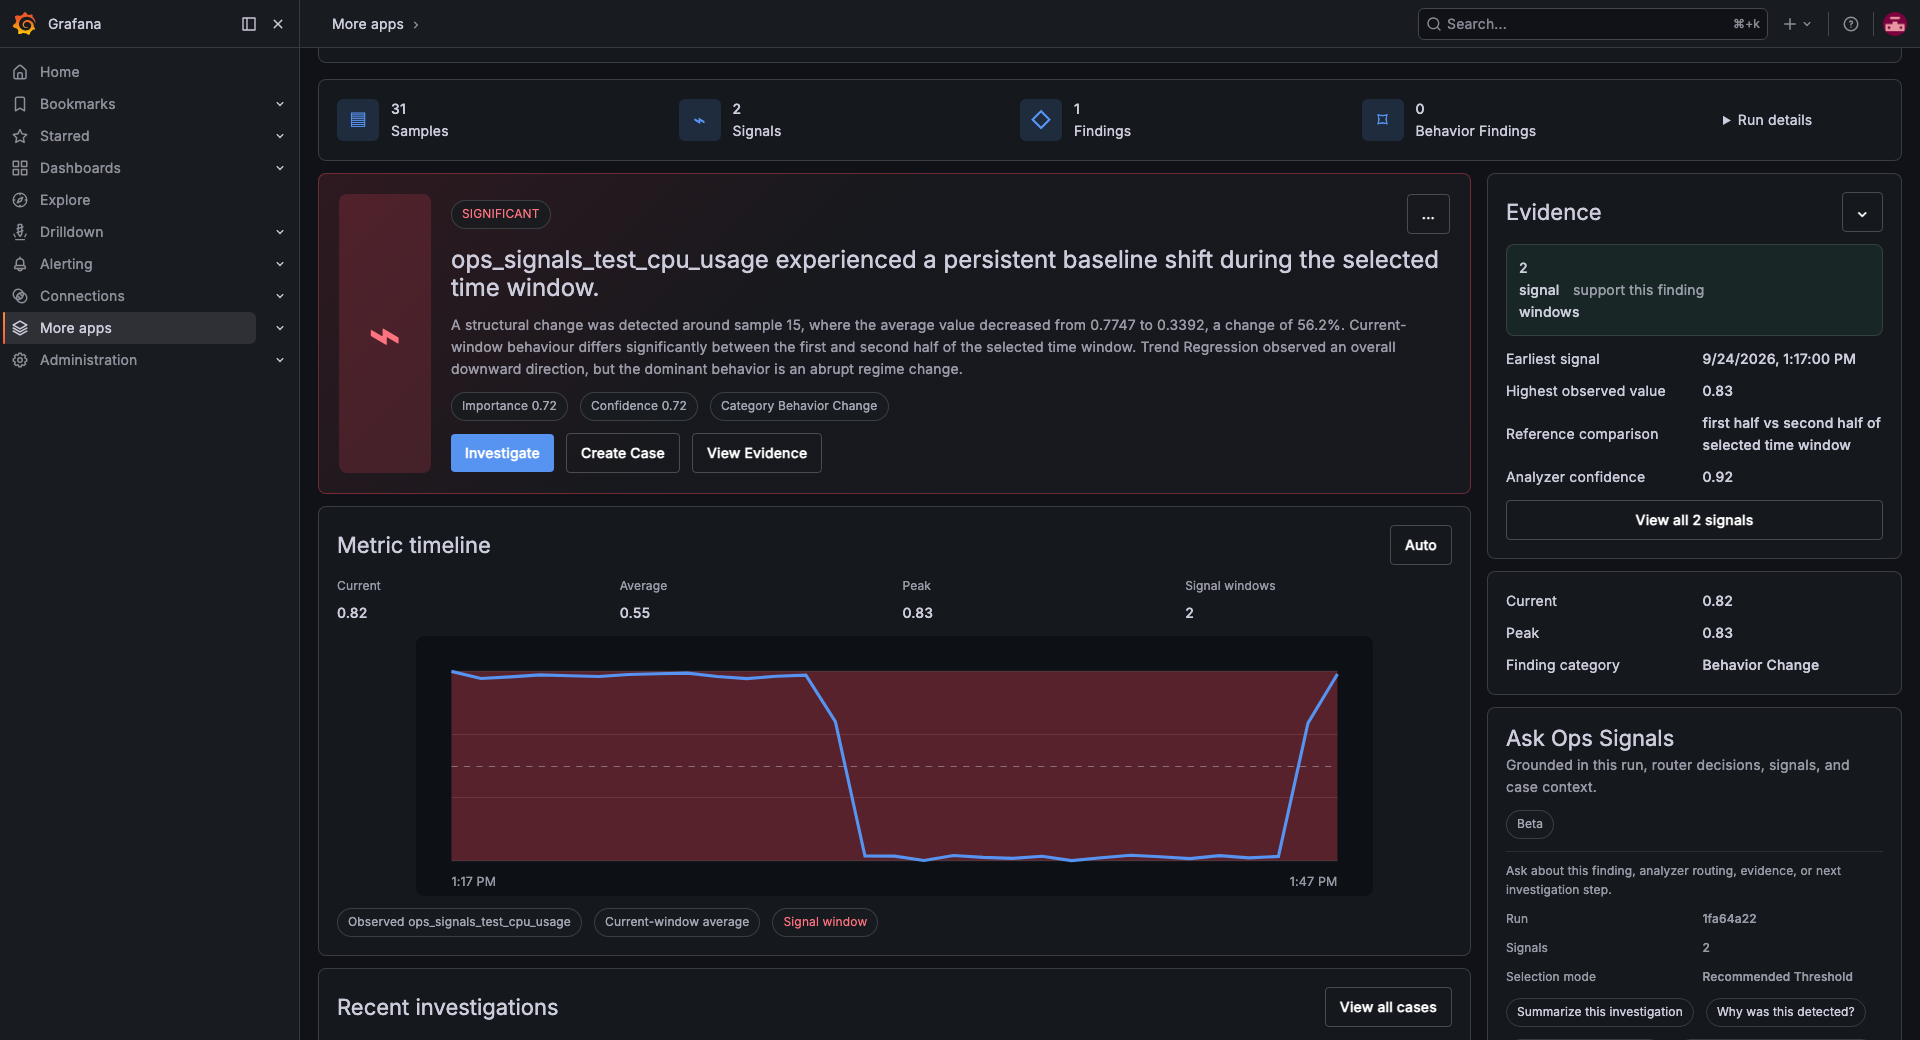
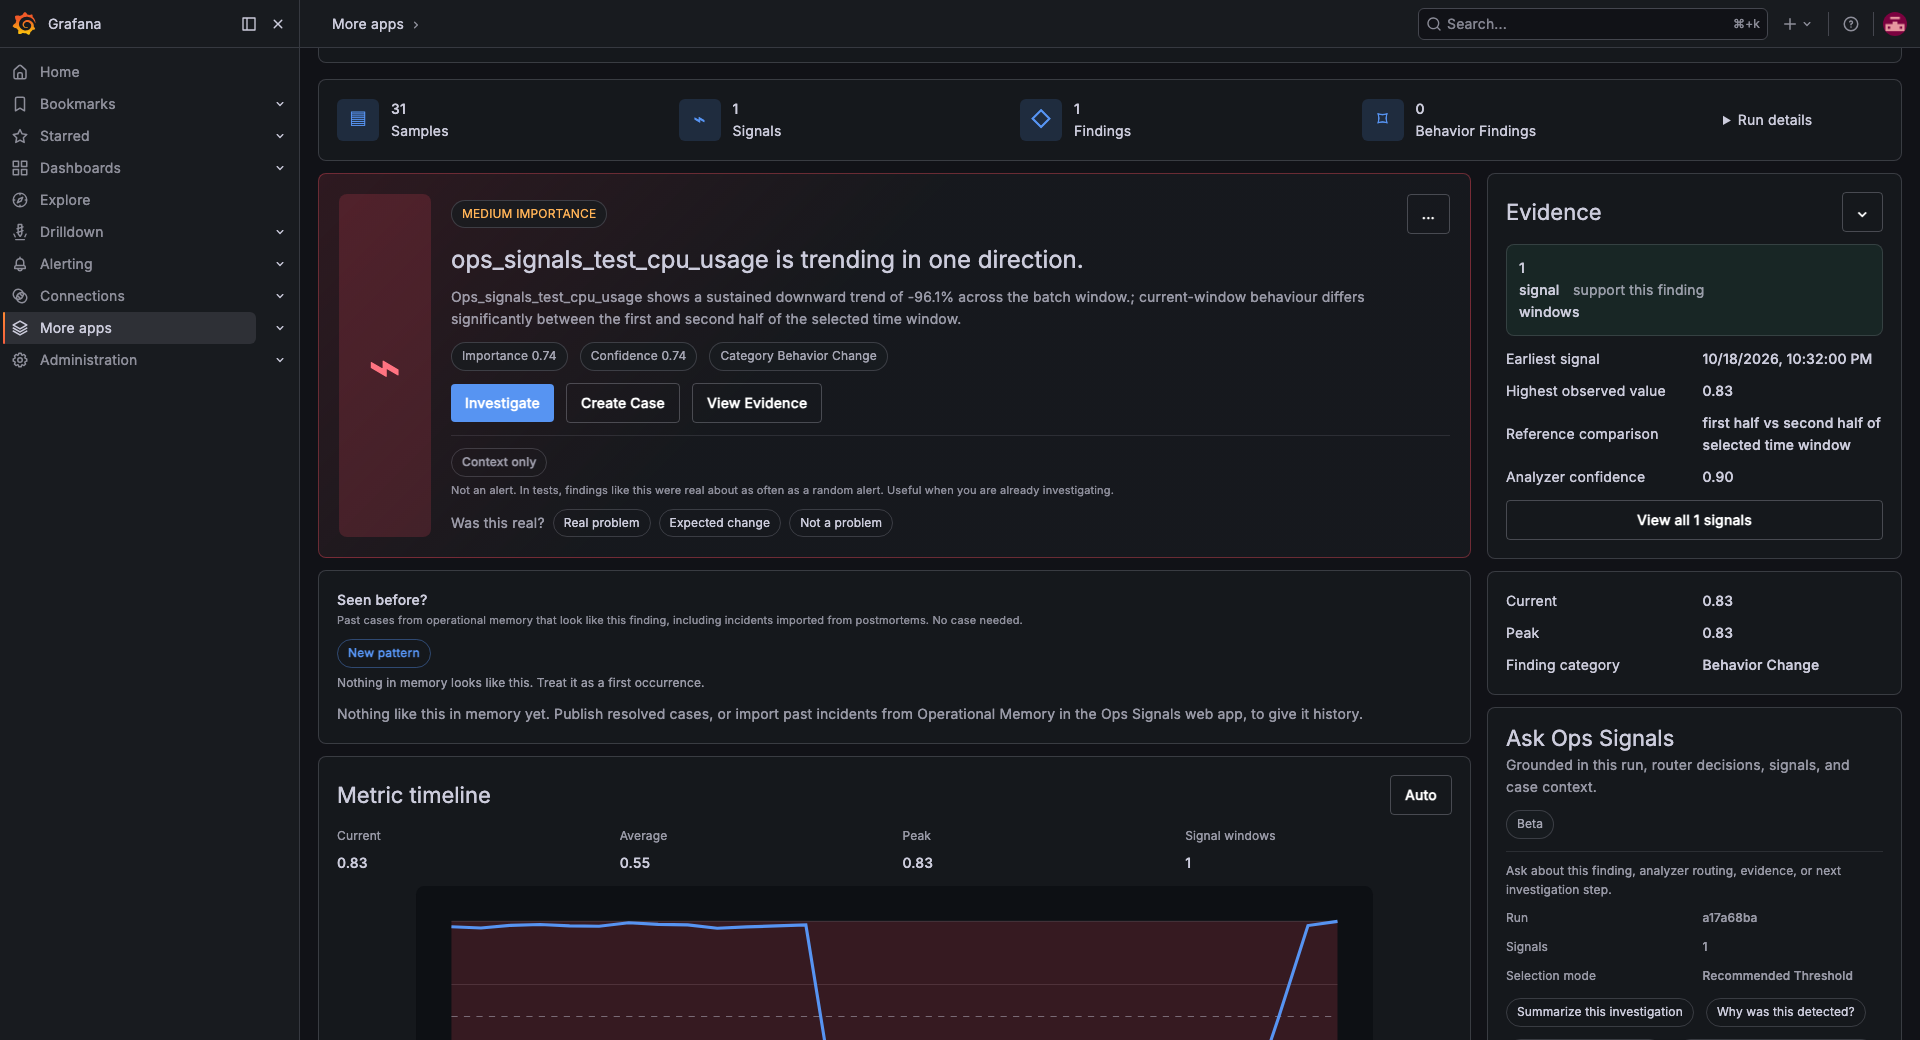
chore: plugin 1.0.35 with current catalog screenshots and a state-proof smoke test
- Autonomous-mode smoke test: with a saved schedule, Configure shows the
  schedule card instead of the form, so the test failed on any install
  that has one. It now opens the form through Edit (nothing is saved),
  checks it, and cancels the edit; with no schedule it runs as before.
- Catalog screenshots re-taken from the demo with the current UI:
  interactive analysis, finding evidence, autonomous overview and
  autonomous configuration (backend set on the Configuration page). The
  Ask Ops Signals shot was dropped: its answer was raw documentation
  text (#44). capture.cjs gains 07-autonomous-overview, and
  release-packaging.md says how to refresh them.
- Plugin version 1.0.35, so Grafana and browsers load the new bundle;
  its notes are under 1.0.35 in frontend/CHANGELOG.md and the root
  Unreleased section names the plugin version.

diff --git a/tests/scenarios/integration/plugin/smoke/autonomous-mode.smoke.spec.ts b/tests/scenarios/integration/plugin/smoke/autonomous-mode.smoke.spec.ts
@@ -6,9 +6,21 @@ test('switching to Autonomous Analysis mode renders the config panel and policy 
 
   await page.getByRole('button', { name: 'Autonomous Analysis' }).click();
 
-  // Confirmed against a live run: switching to Autonomous mode lands on the "configure" stage
-  // (Preview -> Run once), not directly on the overview panel — that only appears after a run.
-  await expect(page.getByText('1. Analysis Scope')).toBeVisible({ timeout: 20_000 });
+  // Switching to Autonomous mode lands on the "configure" stage (Preview -> Run once), not on the
+  // overview panel - that only appears after a run. With a saved schedule the stage shows the
+  // schedule card first; Edit opens the same form without saving anything, and Cancel edit leaves it.
+  const editSchedule = page.getByRole('button', { name: 'Edit', exact: true });
+  const previewPlan = page.getByRole('button', { name: 'Preview metric plan' });
+  await expect(editSchedule.or(previewPlan)).toBeVisible({ timeout: 20_000 });
+  const hadSchedule = await editSchedule.isVisible();
+  if (hadSchedule) await editSchedule.click();
+
+  await expect(page.getByText('1. Analysis Scope')).toBeVisible();
   await expect(page.getByText('2. Monitoring Categories')).toBeVisible();
-  await expect(page.getByRole('button', { name: 'Preview metric plan' })).toBeVisible();
+  await expect(previewPlan).toBeVisible();
+
+  if (hadSchedule) {
+    await page.getByRole('button', { name: 'Cancel edit' }).click();
+    await expect(editSchedule).toBeVisible();
+  }
 });

diff --git a/frontend/CHANGELOG.md b/frontend/CHANGELOG.md
@@ -4,7 +4,7 @@ Changes to the Ops Signals Grafana plugin. The plugin has its own version (1.0.x
 release names the plugin version it ships. The full project changelog is
 [CHANGELOG.md](https://github.com/ramprasadgk9/ops-signals/blob/main/CHANGELOG.md).
 
-## Unreleased
+## 1.0.35 - Unreleased (ships with the next Ops Signals release)
 
 - **Fixed: Autonomous Overview failed with "could not be loaded"** once the backend held many
   analysis runs. The plugin now asks for the newest runs only.
@@ -17,7 +17,7 @@ release names the plugin version it ships. The full project changelog is
   once (Administration → Plugins → Ops Signals → Configuration, or `jsonData.backendUrl` in
   provisioning). The app uses it by default and lists it first in the backend picker. Before this,
   the picker offered only local development addresses.
-- Catalog details: screenshots, links, minimum Grafana version (13.1), and a README for people
+- Catalog details: current screenshots, links, minimum Grafana version (13.1), and a README for people
   installing the plugin.
 - The plugin zip ships the plugin only (no web UI walkthrough videos, 12 MB → 1.3 MB), with its
   source map, LICENSE and CHANGELOG, in one folder named after the plugin id.

diff --git a/docs/release-packaging.md b/docs/release-packaging.md
@@ -29,6 +29,11 @@ To sign the plugin, set `GRAFANA_ACCESS_POLICY_TOKEN` (a grafana.com access poli
 `GRAFANA_SIGN_ROOT_URLS`, the Grafana address(es) the plugin may run on. Without the token the zip is
 unsigned and Grafana loads it only with `allow_loading_unsigned_plugins`.
 
+The catalog screenshots are `frontend/img/screenshots/*.png` (listed in `frontend/plugin.json`). To
+refresh them, run `./scripts/record_screenshots.sh` against the demo and copy the plugin captures
+`02-metrics-analysis`, `03-case-flow`, `07-autonomous-overview` and `06-autonomous-analysis` over
+`metrics-analysis`, `finding-evidence`, `autonomous-overview` and `autonomous-configure`.
+
 On every `v*` tag the Grafana plugin workflow (`.github/workflows/plugin.yml`) runs the same script.
 It signs when the `GRAFANA_ACCESS_POLICY_TOKEN` repository secret is set and attaches the zip to the
 tag's GitHub Release, if there is one.

diff --git a/CHANGELOG.md b/CHANGELOG.md
@@ -2,6 +2,8 @@
 
 ## Unreleased
 
+Includes Grafana plugin 1.0.35.
+
 - **Fixed: the Grafana plugin's Autonomous Overview failed with "could not be loaded" on a
   long-running install.** The plugin downloaded every analysis run with its full JSON (1.6 GB and
   76 s on a dev database) to show the newest 7. `GET /api/analysis-runs` now takes `limit` (1-1000)
